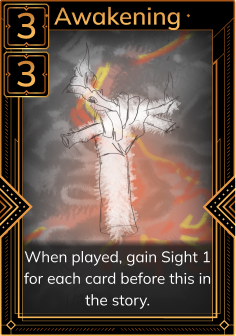
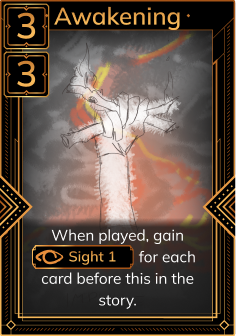
Added Awakening Sight 1 keyword

Changed region(s): [[0.089, 0.6548, 0.9195, 0.9226]]

diff --git a/src/lib/keywordLabel.ts b/src/lib/keywordLabel.ts
@@ -37,8 +37,6 @@ export default class KeywordLabel extends Phaser.GameObjects.Image {
 			s = s.replace(/X/g, this.value.toString())
 		}
 
-		console.log(s)
-
 		let hint = this.scene['hint']
 
 		return () => {
